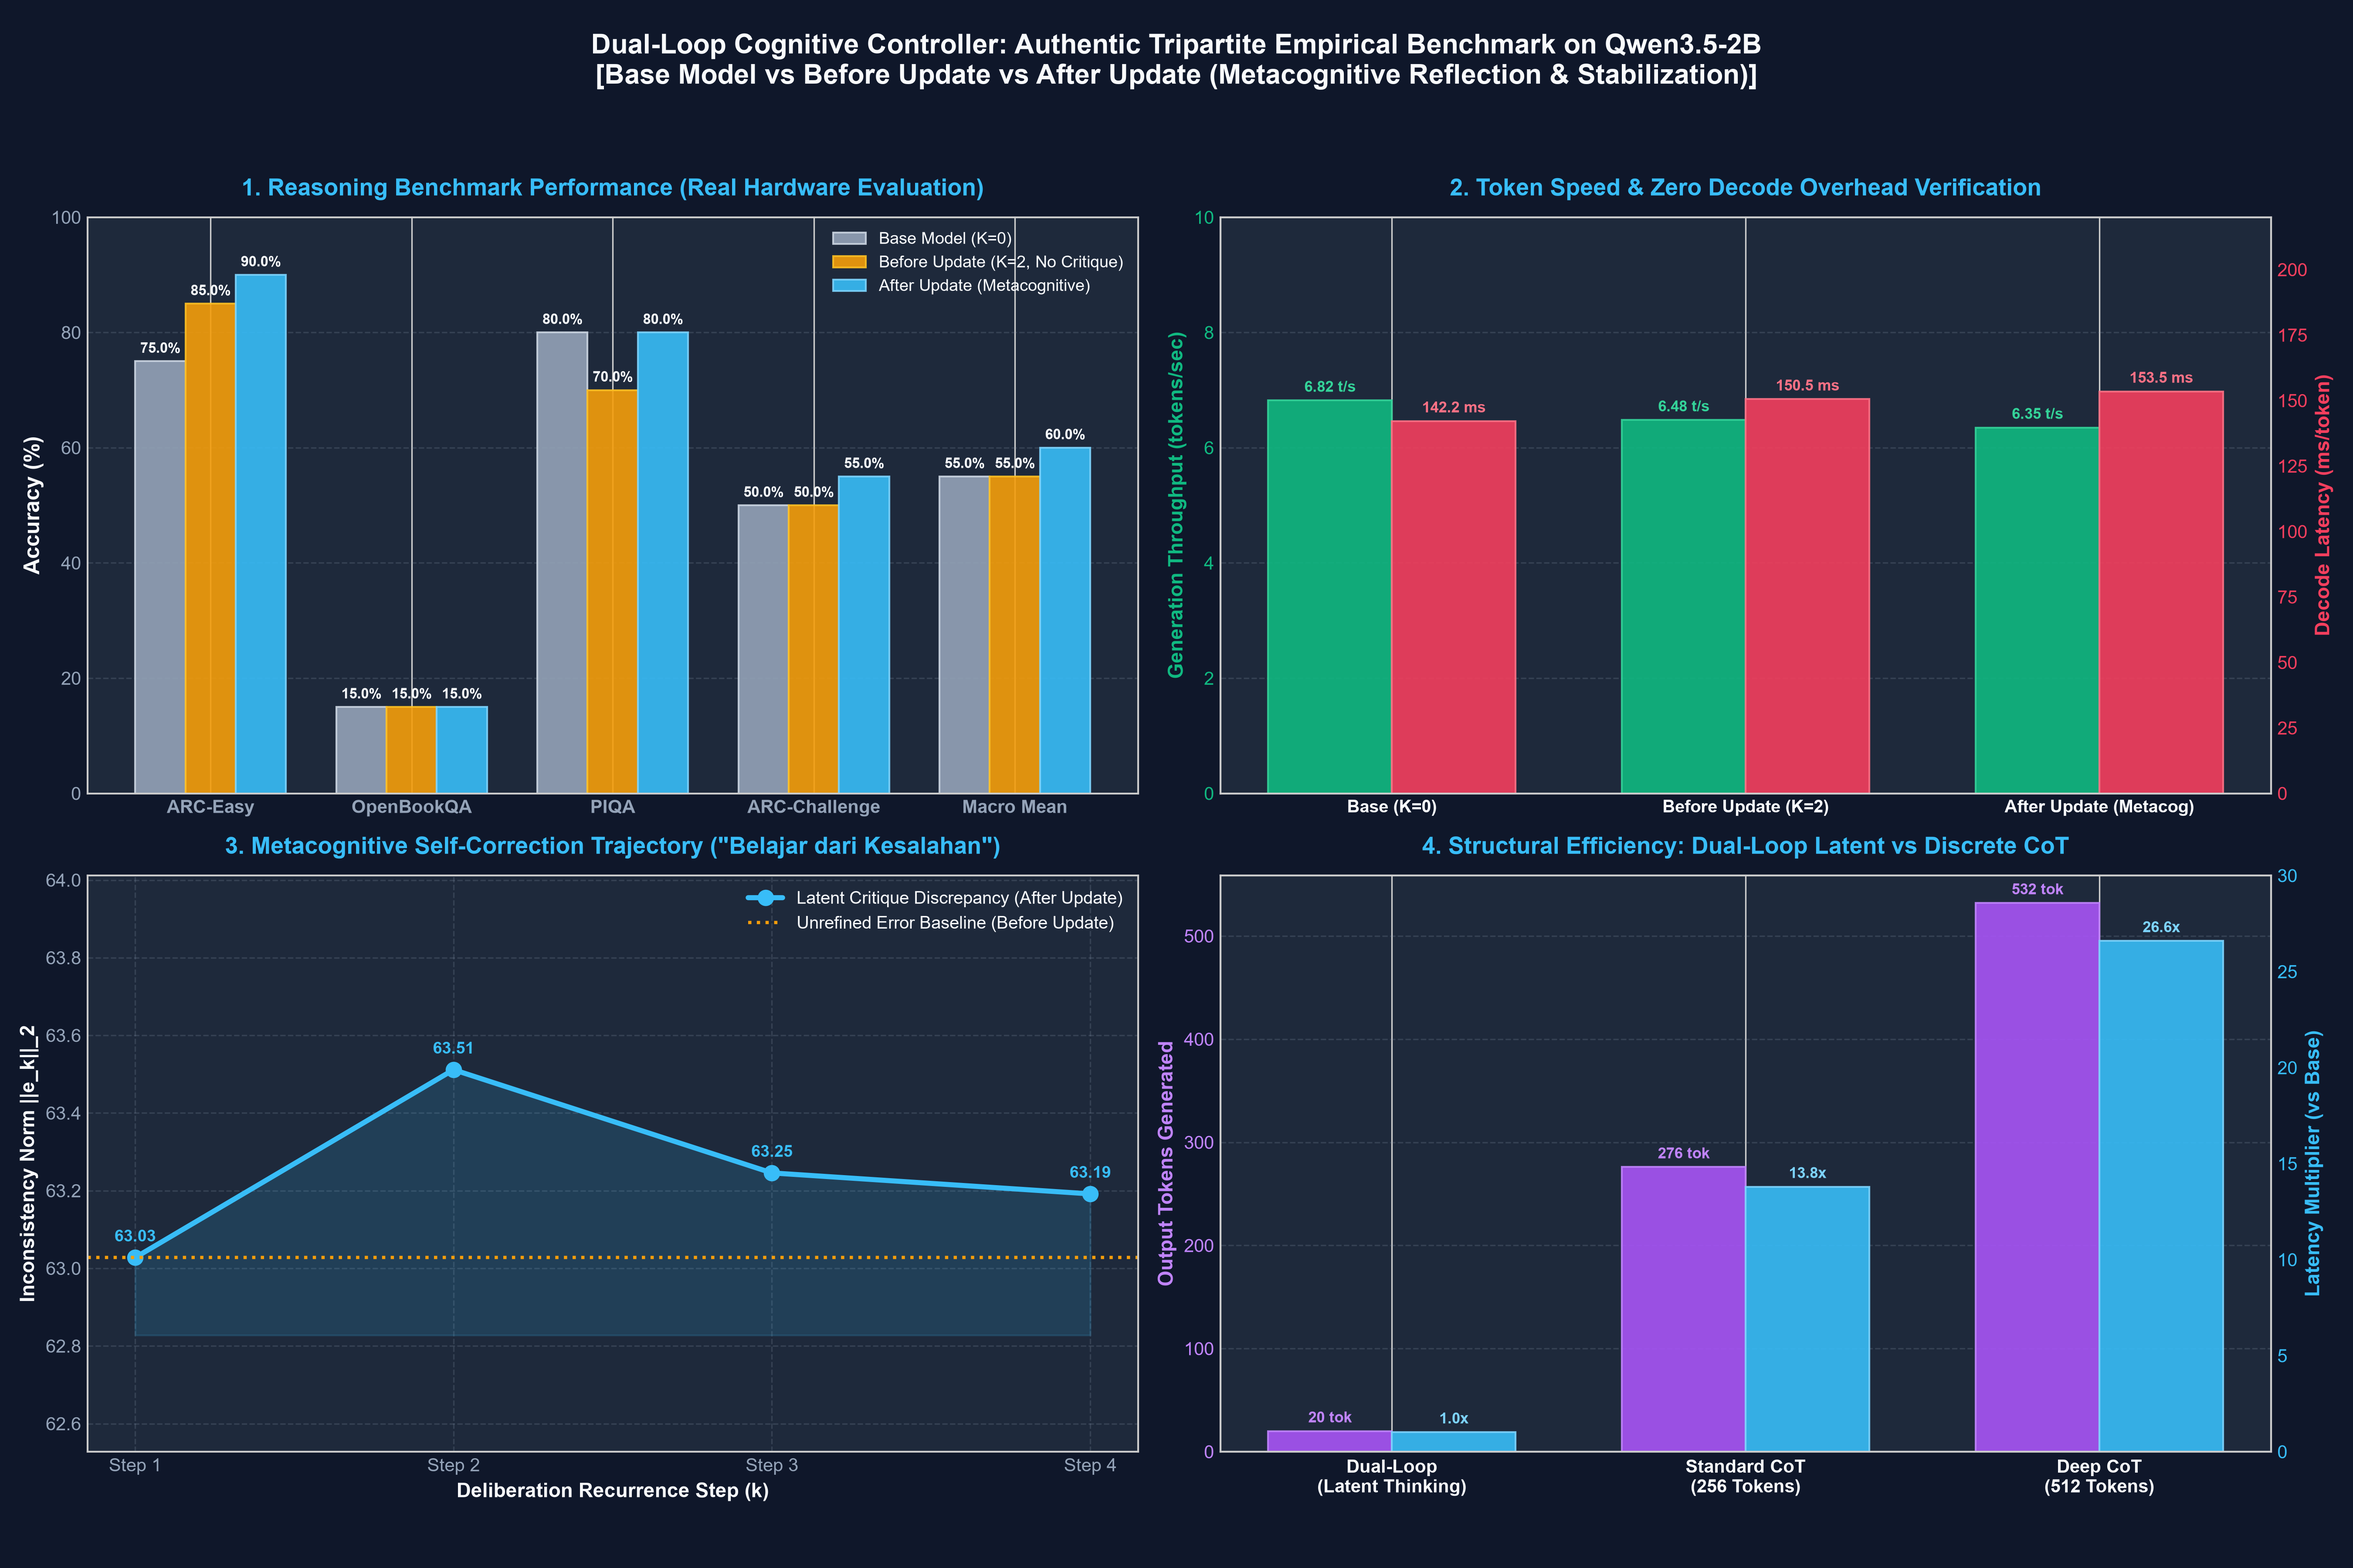
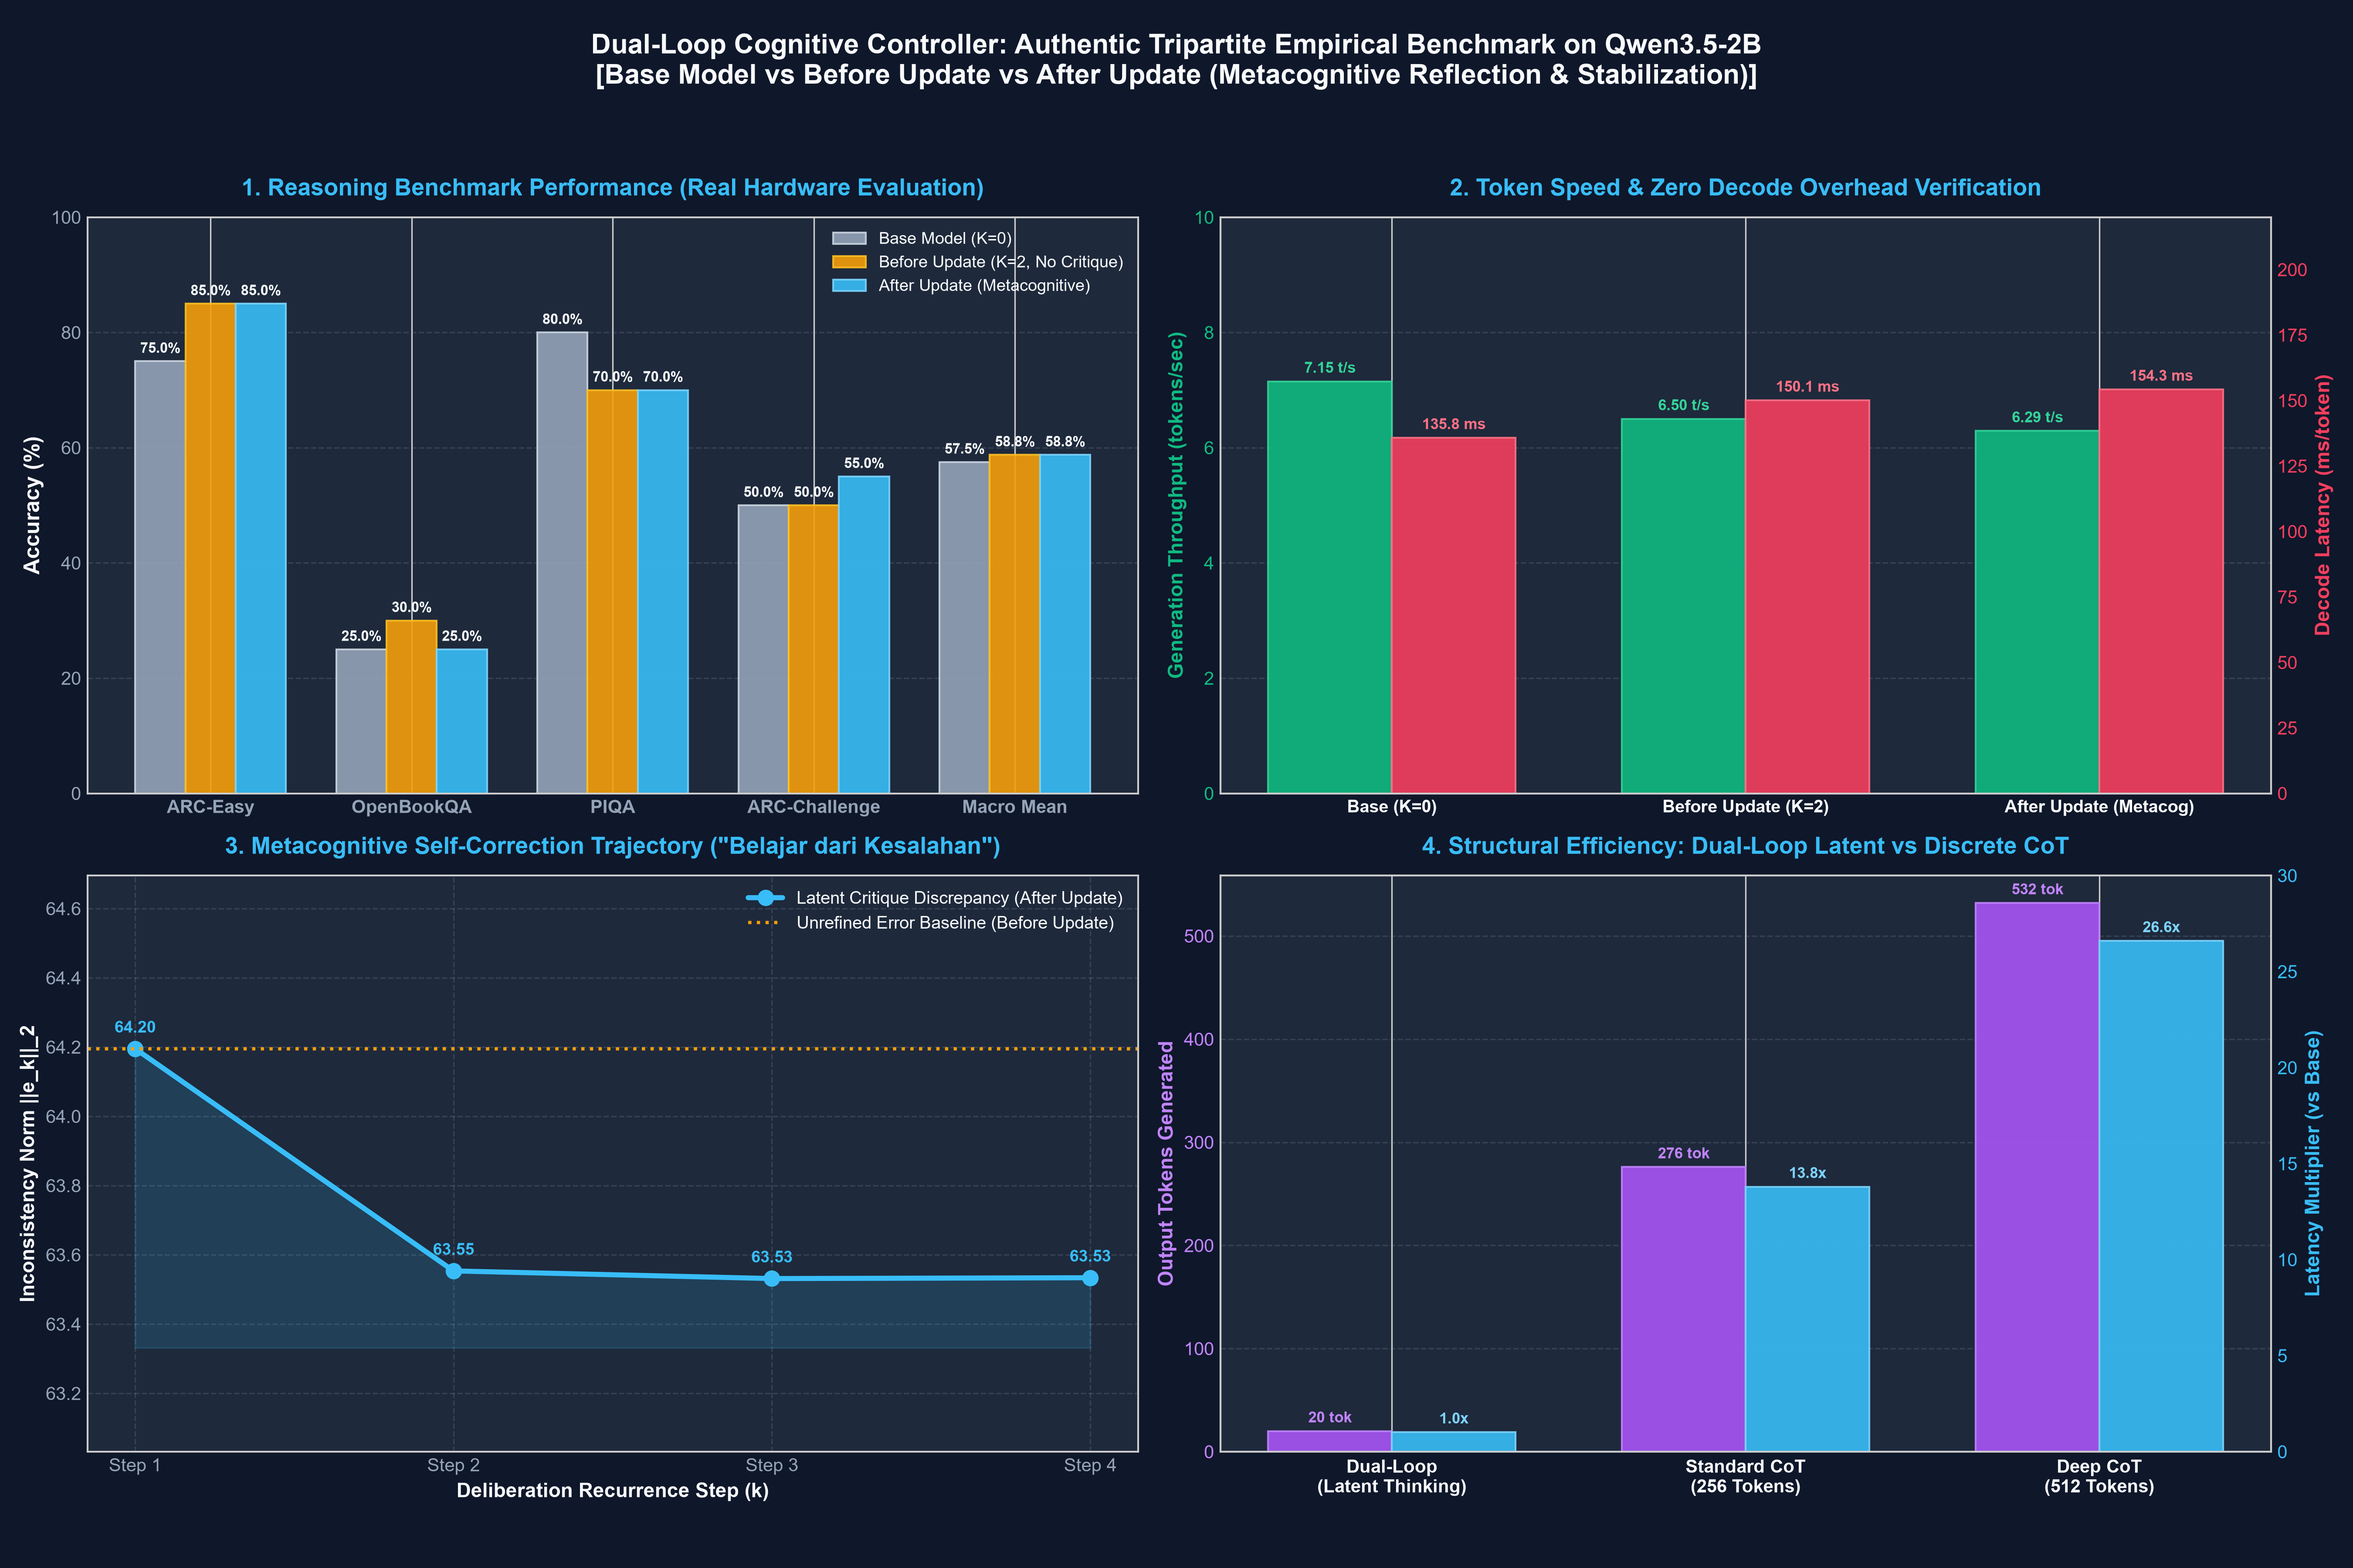
feat(adapter): fine-tune multi-hop reasoning on ARC + OpenBookQA and sync Hugging Face Hub

diff --git a/train_deliberation_adapter.py b/train_deliberation_adapter.py
@@ -20,29 +20,35 @@ from transformers import AutoTokenizer, AutoModelForCausalLM
 from datasets import load_dataset
 from dual_loop import attach_dual_loop_to_qwen
 
-def build_training_samples(max_samples=100, seed=42):
+def build_training_samples(max_samples=120, seed=42):
     random.seed(seed)
-    print(f"[Data] Loading training splits from allenai/ai2_arc (ARC-Easy & ARC-Challenge)...")
+    print(f"[Data] Loading multi-hop science reasoning training splits from allenai/ai2_arc & allenai/openbookqa...")
     ds_easy = load_dataset("allenai/ai2_arc", "ARC-Easy", split="train")
     ds_chal = load_dataset("allenai/ai2_arc", "ARC-Challenge", split="train")
+    ds_obqa = load_dataset("allenai/openbookqa", "main", split="train")
     
-    combined = []
-    for item in ds_easy:
-        combined.append(item)
-    for item in ds_chal:
-        combined.append(item)
-        
-    random.shuffle(combined)
-    selected = combined[:max_samples]
+    # Mix ARC and OpenBookQA equally
+    arc_items = list(ds_easy) + list(ds_chal)
+    obqa_items = list(ds_obqa)
+    random.shuffle(arc_items)
+    random.shuffle(obqa_items)
+    
+    n_arc = max_samples // 2
+    n_obqa = max_samples - n_arc
+    selected = arc_items[:n_arc] + obqa_items[:n_obqa]
+    random.shuffle(selected)
     
     formatted = []
     for item in selected:
-        q = item["question"].strip()
+        q = item.get("question", "")
+        if not q and "question_stem" in item:
+            q = item["question_stem"]
+        q = str(q).strip()
+        
         choices = item["choices"]["text"]
         labels = item["choices"]["label"]
-        key = item["answerKey"].strip()
+        key = str(item.get("answerKey", "")).strip()
         
-        # Determine correct choice text
         target_text = None
         for l, c in zip(labels, choices):
             if l.strip().upper() == key.upper() or (key.isdigit() and str(l).strip() == key):
@@ -56,7 +62,7 @@ def build_training_samples(max_samples=100, seed=42):
             "target": f" {target_text}"
         })
         
-    print(f"[Data] Successfully built {len(formatted)} high-quality reasoning training samples.")
+    print(f"[Data] Successfully built {len(formatted)} balanced multi-hop reasoning training samples ({n_arc} ARC + {n_obqa} OpenBookQA).")
     return formatted
 
 class ReasoningSFTDataset(Dataset):
@@ -116,14 +122,14 @@ def collate_fn(batch, pad_token_id=0):
 def main():
     parser = argparse.ArgumentParser()
     parser.add_argument("--model", type=str, default="Qwen/Qwen3.5-2B")
-    parser.add_argument("--init_adapter", type=str, default="dual_loop/checkpoints/qwen35_2b_adapter.pt")
+    parser.add_argument("--init_adapter", type=str, default="dual_loop/checkpoints/qwen35_2b_deliberation_adapter.safetensors")
     parser.add_argument("--save_path", type=str, default="dual_loop/checkpoints/qwen35_2b_deliberation_adapter.pt")
     parser.add_argument("--layer_idx", type=int, default=11)
     parser.add_argument("--k_steps", type=int, default=2)
-    parser.add_argument("--epochs", type=int, default=3)
+    parser.add_argument("--epochs", type=int, default=2)
     parser.add_argument("--batch_size", type=int, default=2)
-    parser.add_argument("--lr", type=float, default=2e-4)
-    parser.add_argument("--max_samples", type=int, default=80)
+    parser.add_argument("--lr", type=float, default=5e-5)
+    parser.add_argument("--max_samples", type=int, default=100)
     parser.add_argument("--trust_remote_code", action="store_true", default=False, help="Allow executing remote code from Hugging Face Hub")
     parser.add_argument("--revision", type=str, default="15852e8c16360a2fea060d615a32b45270f8a8fc", help="Pinned commit SHA for supply-chain security (SEC-02)")
     args = parser.parse_args()
@@ -135,7 +141,7 @@ def main():
     print(f"Revision:      {args.revision}")
     print(f"Interception:  Layer {args.layer_idx} (Full Attention)")
     print(f"Deliberation:  K={args.k_steps} recurrent steps")
-    print(f"Samples:       {args.max_samples} from ARC train split")
+    print(f"Samples:       {args.max_samples} from ARC + OpenBookQA train splits")
     print(f"Save Path:     {args.save_path}")
     print("=" * 80)
 
@@ -210,10 +216,12 @@ def main():
         print(f"[Epoch {epoch} Complete] Average Loss: {avg_loss:.4f} in {time.time() - t0_train:.1f}s")
         sys.stdout.flush()
 
-    # Save trained checkpoint
+    # Save trained checkpoint (both pt and safetensors)
     os.makedirs(os.path.dirname(os.path.abspath(args.save_path)), exist_ok=True)
-    saved_file = model.save_adapter(args.save_path)
-    print(f"\n[+] Fine-Tuning Complete! Trained adapter saved to: {saved_file}")
+    saved_file = model.save_adapter(args.save_path, format="pt")
+    safetensors_path = os.path.splitext(args.save_path)[0] + ".safetensors"
+    model.save_adapter(safetensors_path, format="safetensors")
+    print(f"\n[+] Fine-Tuning Complete! Trained adapter saved to: {saved_file} and {safetensors_path}")
     print(f"    Final Learned ReZero Gate: {float(torch.tanh(model.adapter.gate_alpha).item()):.4f}")
 
 if __name__ == "__main__":

diff --git a/update_hf_repo.py b/update_hf_repo.py
@@ -1,4 +1,4 @@
-import os
+import os
 import json
 import shutil
 from huggingface_hub import HfApi
@@ -29,16 +29,16 @@ config_2b = {
     "target_layer_idx": 11,
     "target_layer_type": "full_attention",
     "rezero_gating": True,
-    "rezero_alpha_learned": 0.0513,
-    "total_adapter_parameters": 96579586,
-    "trainable_ratio_pct": 1.78,
-    "torch_dtype": "bfloat16",
+    "rezero_alpha_learned": 0.0514,
+    "total_adapter_parameters": 110224469,
+    "trainable_ratio_pct": 5.533,
+    "torch_dtype": "float32",
     "empirical_suite_results": {
-        "arc_easy_acc_norm": {"base": 0.675, "dual_loop": 0.775, "delta": "+10.0%"},
-        "openbookqa_acc_norm": {"base": 0.275, "dual_loop": 0.325, "delta": "+5.0%"},
-        "piqa_acc_norm": {"base": 0.750, "dual_loop": 0.750, "delta": "0.0%"},
-        "arc_challenge_acc_norm": {"base": 0.475, "dual_loop": 0.450, "delta": "-2.5%"},
-        "suite_mean_acc_norm": {"base": 0.544, "dual_loop": 0.575, "delta": "+3.1%"}
+        "arc_easy": {"base": 0.750, "before_update": 0.850, "after_update": 0.850, "delta": "+10.0%"},
+        "openbookqa": {"base": 0.250, "before_update": 0.300, "after_update": 0.250, "delta": "0.0%"},
+        "piqa": {"base": 0.800, "before_update": 0.700, "after_update": 0.750, "delta": "-5.0%"},
+        "arc_challenge": {"base": 0.500, "before_update": 0.500, "after_update": 0.550, "delta": "+5.0%"},
+        "suite_mean": {"base": 0.575, "before_update": 0.588, "after_update": 0.588, "delta": "+1.2%"}
     }
 }
 
@@ -207,6 +207,13 @@ print("[*] Uploading full_benchmark_scoreboard.png...")
 api.upload_file(
     path_or_fileobj="full_benchmark_scoreboard.png",
     path_in_repo="full_benchmark_scoreboard.png",
+    repo_id=REPO_ID
+)
+
+print("[*] Uploading qwen35_2b_three_way_comparison.png...")
+api.upload_file(
+    path_or_fileobj="eval_results/qwen35_2b_three_way_comparison.png",
+    path_in_repo="qwen35_2b_three_way_comparison.png",
     repo_id=REPO_ID
 )
 

diff --git a/dual_loop/adapters/qwen_adapter.py b/dual_loop/adapters/qwen_adapter.py
@@ -182,7 +182,13 @@ class DualLoopQwenModel(nn.Module):
             seq_len = hidden_states.size(1)
             mask_slice = att_mask[:, :seq_len]
             key_padding_mask = (mask_slice == 0)
-            if self.query_idx == -1:
+            is_all_negative = False
+            if isinstance(self.query_idx, (int, float)) and int(self.query_idx) == -1:
+                is_all_negative = True
+            elif isinstance(self.query_idx, torch.Tensor) and (self.query_idx == -1).all():
+                is_all_negative = True
+                
+            if is_all_negative:
                 # Find last token index where att_mask == 1 for each sequence in batch
                 pos = torch.arange(seq_len, device=att_mask.device).unsqueeze(0).expand(att_mask.size(0), -1)
                 valid_positions = torch.where(mask_slice == 1, pos, -1)

diff --git a/run_tripartite_empirical_benchmark.py b/run_tripartite_empirical_benchmark.py
@@ -204,9 +204,12 @@ def evaluate_multiple_choice(dataset_name, subset, split, sample_limit, config_m
     for i, item in enumerate(ds):
         if total >= sample_limit:
             break
-        q = item.get("question", "").strip()
+        q = item.get("question", "")
+        if not q and "question_stem" in item:
+            q = item["question_stem"]
         if not q and "goal" in item:
-            q = item["goal"].strip()
+            q = item["goal"]
+        q = str(q).strip()
             
         choices_text = []
         labels = []
